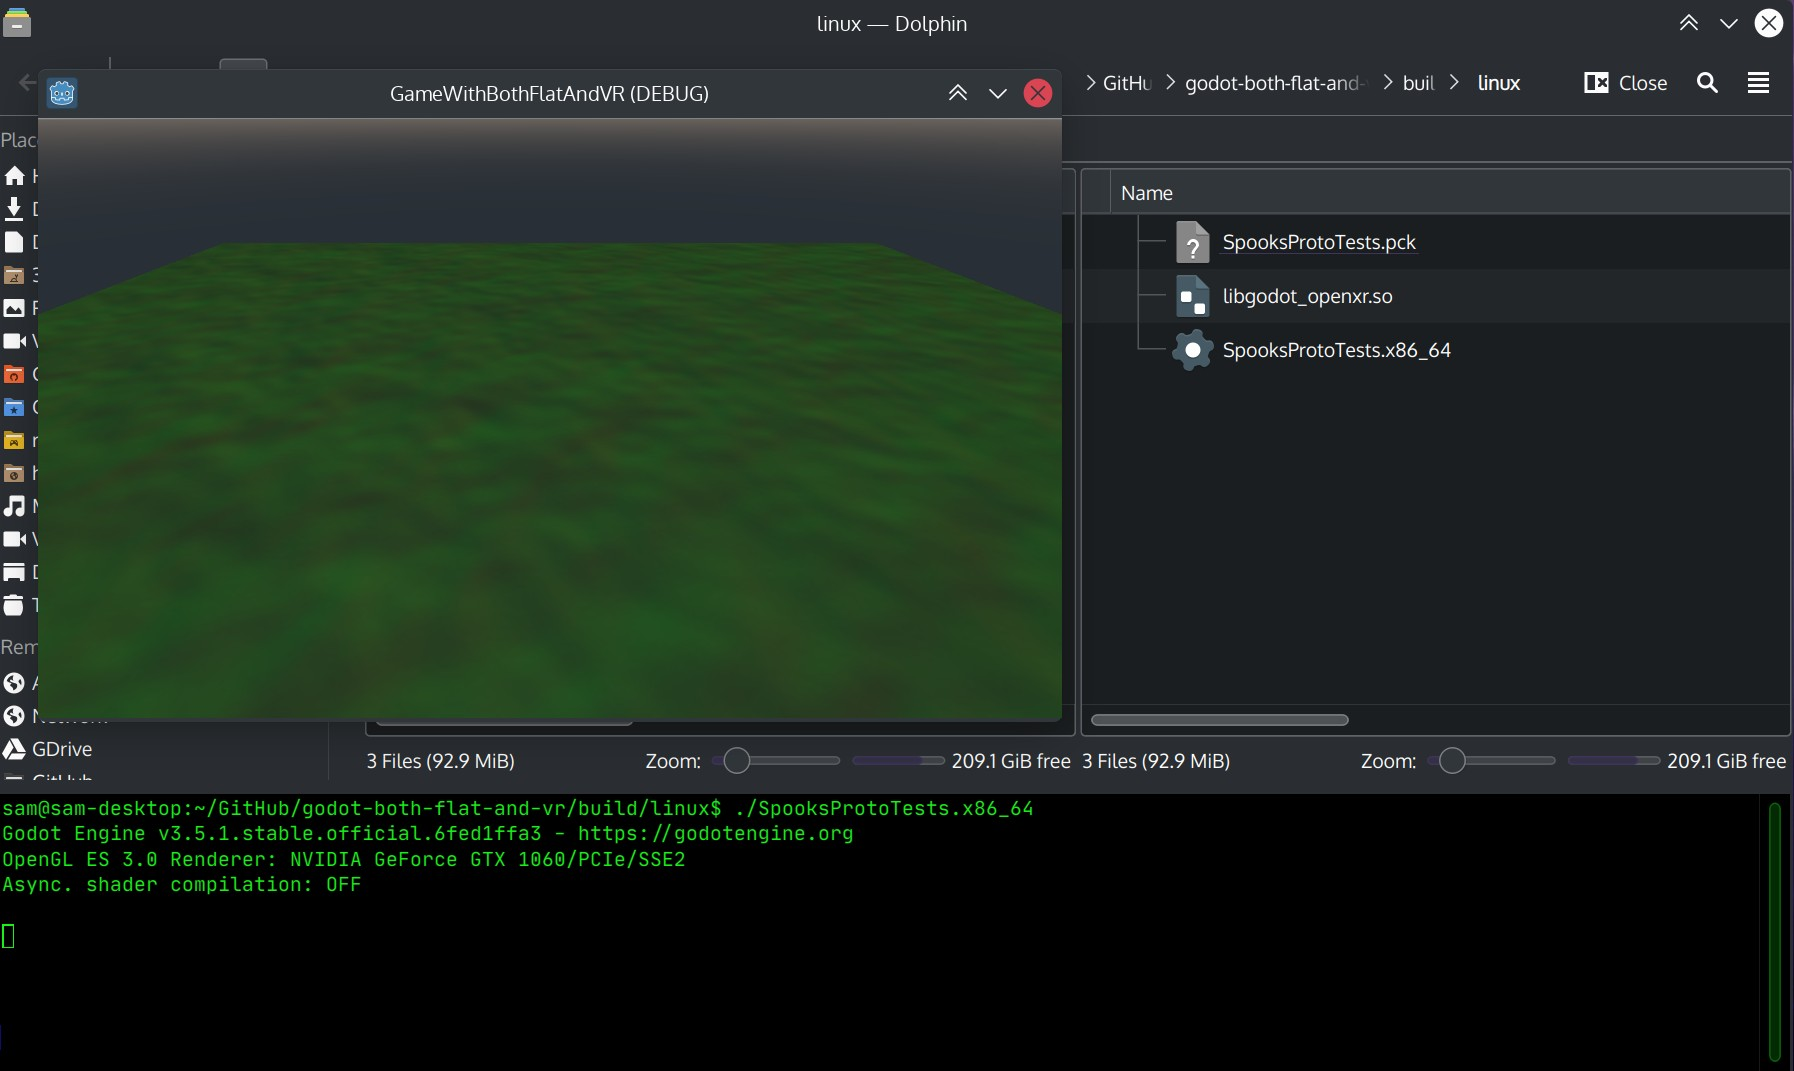
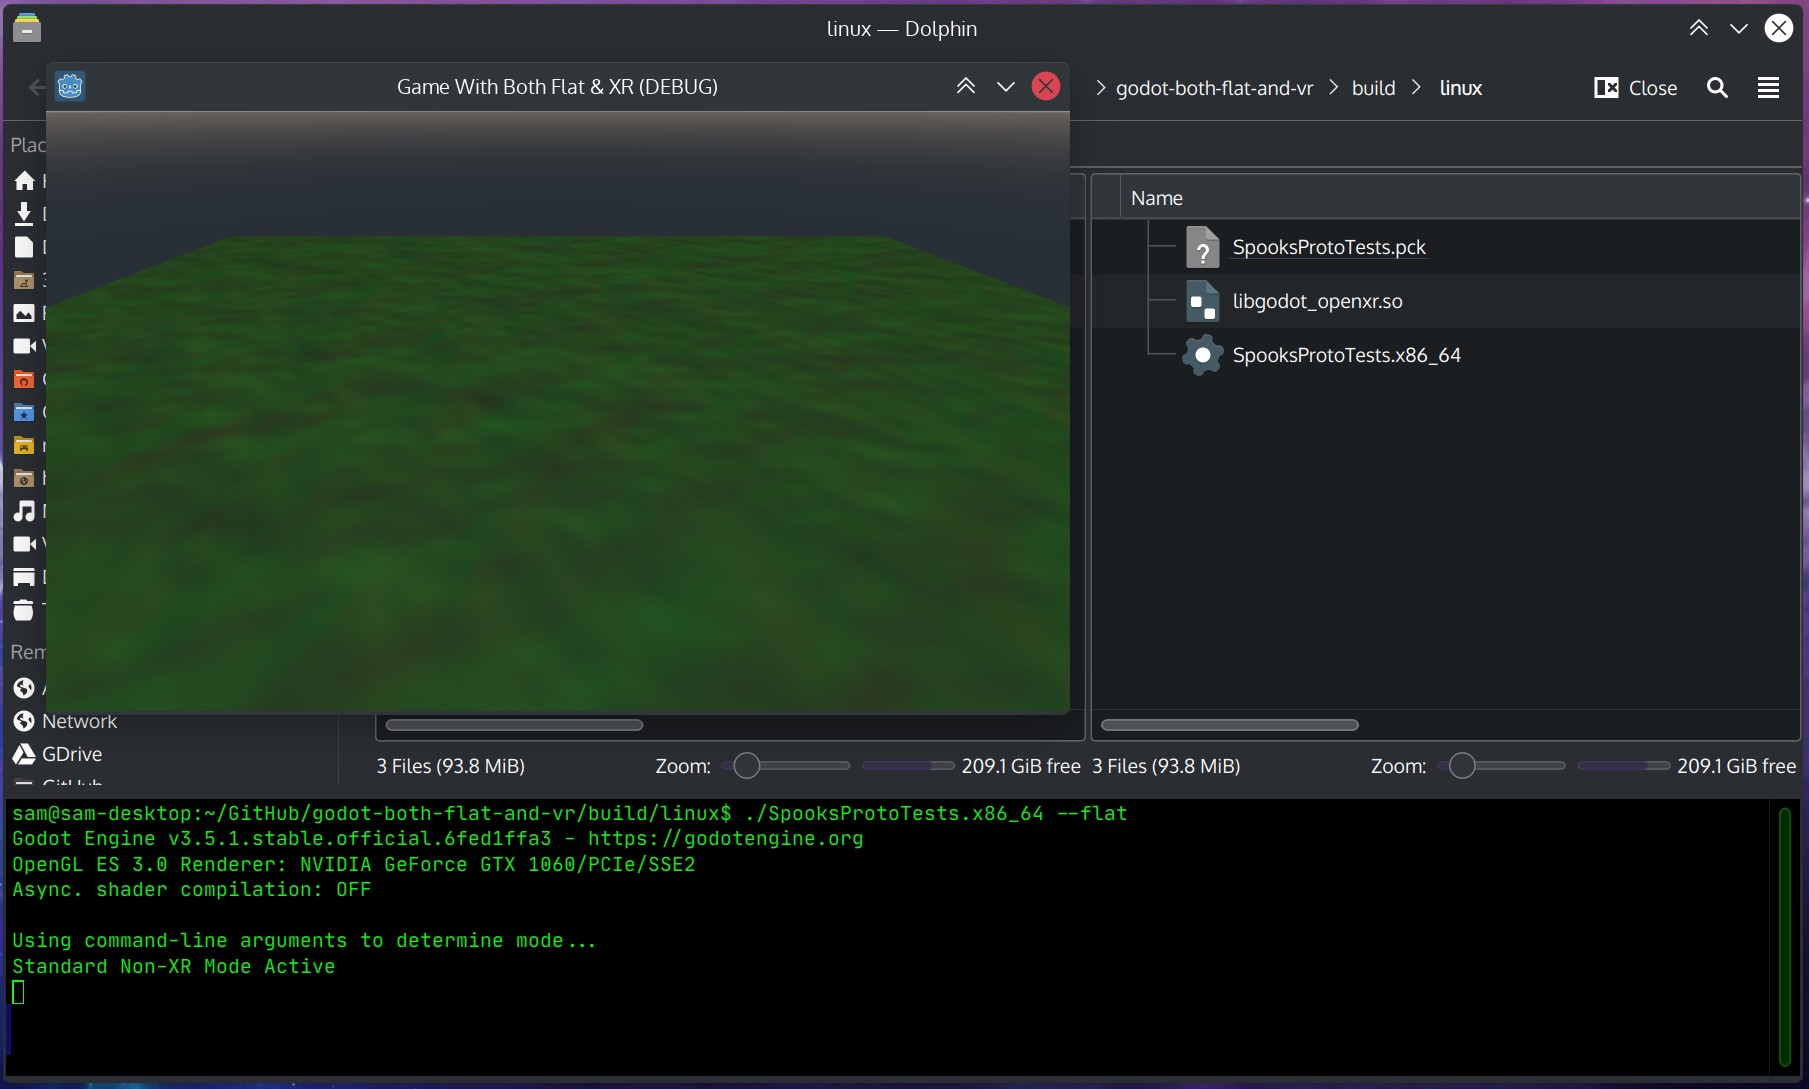
Update screenshots and switcher logic

diff --git a/README.md b/README.md
@@ -24,3 +24,8 @@ Use "--flat", "--flat=true", or "--xr=false" for standard flat mode.
 Use "--xr" or "--xr=true" for XR mode.
 
 ![xr-command-option](screenshots/xr-command-option.jpg)
+
+If nothing was provided as command-line argument, a switcher UI will be used.
+
+![no-command-option](screenshots/no-command-option.jpg)
+
